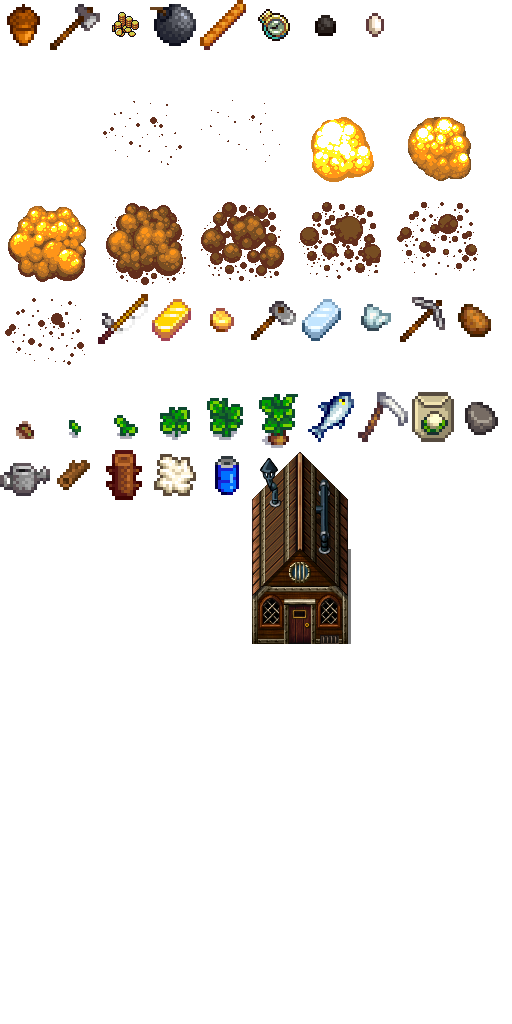
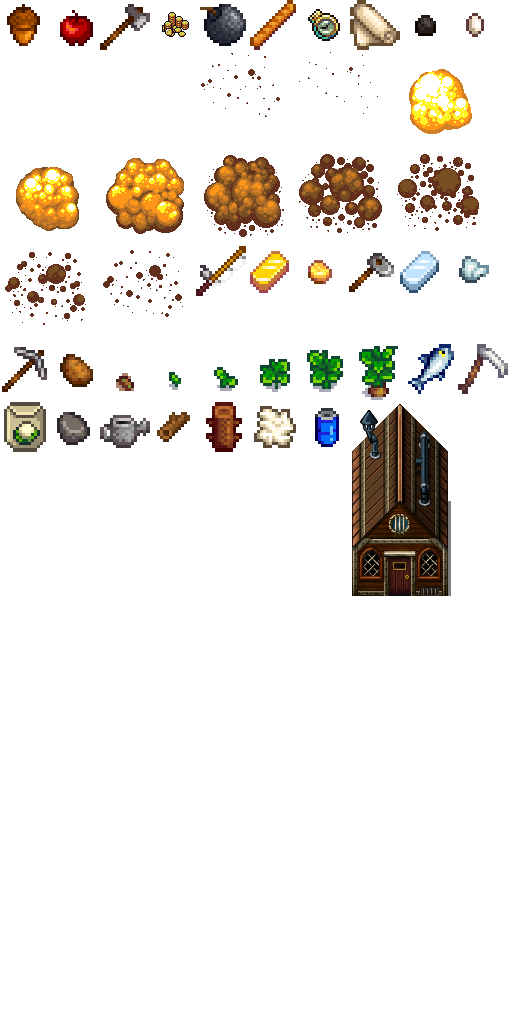
Added some new items: apple, wool and cloth

Changed region(s): [[0.0, 0.0, 1.0, 0.6562], [0.0938, 0.0, 0.7812, 0.0625], [0.9062, 0.0, 0.9375, 0.0312]]

diff --git a/core/src/com/binarybrains/sprout/entity/Inventory.java b/core/src/com/binarybrains/sprout/entity/Inventory.java
@@ -13,7 +13,7 @@ import java.util.List;
 public class Inventory {
 
     public Level level;
-    public List<Item> items = new ArrayList<Item>();
+    public List<Item> items = new ArrayList<Item>(); // should we make this into a Map<slotNumber, Item> instead?
 
     private int capacity; // this can be upgraded
 
@@ -32,8 +32,6 @@ public class Inventory {
 
     public boolean add(int slot, Item item) {
 
-        Gdx.app.log("Inventory", "Adding " + item +  " to inventory slot " + slot);
-
         if (item instanceof ResourceItem) {
             ResourceItem toTake = (ResourceItem) item;
             ResourceItem has = findResource(toTake.resource);
@@ -46,7 +44,6 @@ public class Inventory {
                     } catch (NullPointerException e) {
                     }
                 } else {
-                    Gdx.app.log("Inventory", "Inventory is full. Max capacity:" + capacity);
                     return false;
                 }
             } else {
@@ -66,7 +63,6 @@ public class Inventory {
                 } catch (NullPointerException e) {
                 }
             } else {
-                Gdx.app.log("Inventory", "Inventory is full. Max capacity:" + capacity);
                 return false;
             }
         }

diff --git a/core/src/com/binarybrains/sprout/item/resource/Resource.java b/core/src/com/binarybrains/sprout/item/resource/Resource.java
@@ -16,11 +16,15 @@ public class Resource {
 
     public static Resource acorn = new Resource("Acorn", "Fruit of the oak, a smooth oval nut in a rough cuplike base.");
 
+    public static Resource wool = new Resource("Wool", "Wool is the textile fiber obtained from sheep.");
+    public static Resource cloth = new Resource("Cloth", "Textile obtained from whool");
+
     public static Resource woodFence = new PlantableResource("Wood Fence", "Keep animals contained and the wolf away");
     public static Resource bomb = new PlantableResource("Bomb", "Generates an explosion");
 
     public static Resource salmon = new FoodResource("Salmon", "Nice meatfish, grill it!");
     public static Resource potato = new FoodResource("Potato", "Starchy, tuberous crop.");
+    public static Resource apple = new FoodResource("Apple", "A fruit");
 
     public static Resource seeds = new SeedResource("Seed Bag", "A bag of mixed seeds");
 

diff --git a/core/src/com/binarybrains/sprout/hud/inventory/InventoryWindow.java b/core/src/com/binarybrains/sprout/hud/inventory/InventoryWindow.java
@@ -59,7 +59,7 @@ public class InventoryWindow extends Window {
         centerMe();
     }
 
-    public void build() {
+    private void build() {
 
         Table itemTable = new Table(skin);
 
@@ -73,7 +73,7 @@ public class InventoryWindow extends Window {
         pack();
     }
 
-    public void syncInventory(final Inventory inventory) {
+    private void syncInventory(final Inventory inventory) {
 
         group.clear();
         String selected = level.player.activeItem.getName();
@@ -83,7 +83,6 @@ public class InventoryWindow extends Window {
         for (Item item : inventory.getItems()) {
 
             Button button = new Button(skin, "toggle");
-            //ImageTextButton
             String counter = "";
             if (item instanceof ResourceItem) {
                 counter = "" + inventory.count(item);
@@ -133,6 +132,5 @@ public class InventoryWindow extends Window {
 
         }
     }
-
 
 }

diff --git a/core/src/com/binarybrains/sprout/crafting/Crafting.java b/core/src/com/binarybrains/sprout/crafting/Crafting.java
@@ -30,6 +30,8 @@ public class Crafting {
             workbenchRecipes.add(new ToolRecipe(new WateringCan(), 0).addCost(Resource.ironBar, 5));
             workbenchRecipes.add(new ToolRecipe(new Scythe(), 0).addCost(Resource.ironBar, 2).addCost(Resource.wood, 2));
 
+            workbenchRecipes.add(new ResourceRecipe(Resource.cloth).addCost(Resource.wool, 3));
+
             // change to Furnace Recipes
             workbenchRecipes.add(new ResourceRecipe(Resource.bomb).addCost(Resource.ironOre, 4).addCost(Resource.coal, 2));
             workbenchRecipes.add(new ResourceRecipe(Resource.ironBar).addCost(Resource.ironOre, 4).addCost(Resource.coal, 1));

diff --git a/core/src/com/binarybrains/sprout/entity/Player.java b/core/src/com/binarybrains/sprout/entity/Player.java
@@ -64,7 +64,8 @@ public class Player extends Npc implements InputProcessor {
         getInventory().add(new ResourceItem(Resource.wood, 3));
         getInventory().add(new ResourceItem(Resource.coal, 21));
         getInventory().add(new ResourceItem(Resource.stone, 12));
-        //getInventory().add(new ResourceItem(Resource.acorn, 3));
+        getInventory().add(new ResourceItem(Resource.goldNugget, 13));
+        getInventory().add(new ResourceItem(Resource.apple, 12));
 
         setActiveItem(getInventory().getItems().get(3));
 
